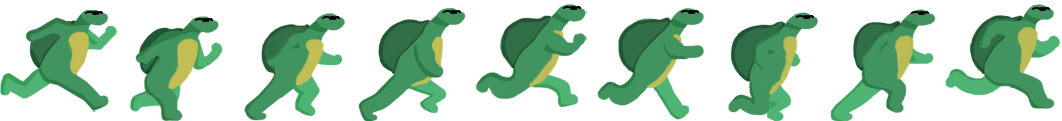
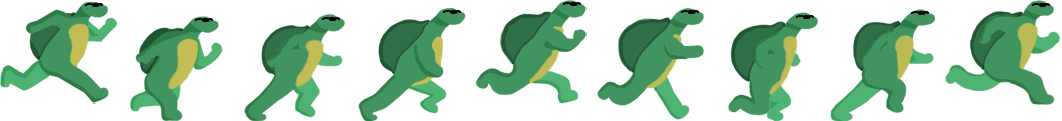
tr

diff --git a/src/scene.js b/src/scene.js
@@ -6,7 +6,7 @@ class scene extends Phaser.Scene {
         this.load.image('Piment', 'assets/images/Piment.png');
         // At last image must be loaded with its JSON
         this.load.atlas('player2', 'assets/images/kenney_player.png', 'assets/images/kenney_player_atlas.json');
-        this.load.spritesheet('player','assets/images/courirT.png',{frameWidth: 118, frameHeight: 121});
+        this.load.spritesheet('player','assets/images/courirT2.png',{frameWidth: 118, frameHeight: 121});
         this.load.image('tiles', 'assets/tilesets/platformPack_tilesheet.png');
         this.load.image('tiles2', 'assets/tilesets/déco1.png');
         this.load.image('tiles3', 'assets/tilesets/fond.png');
